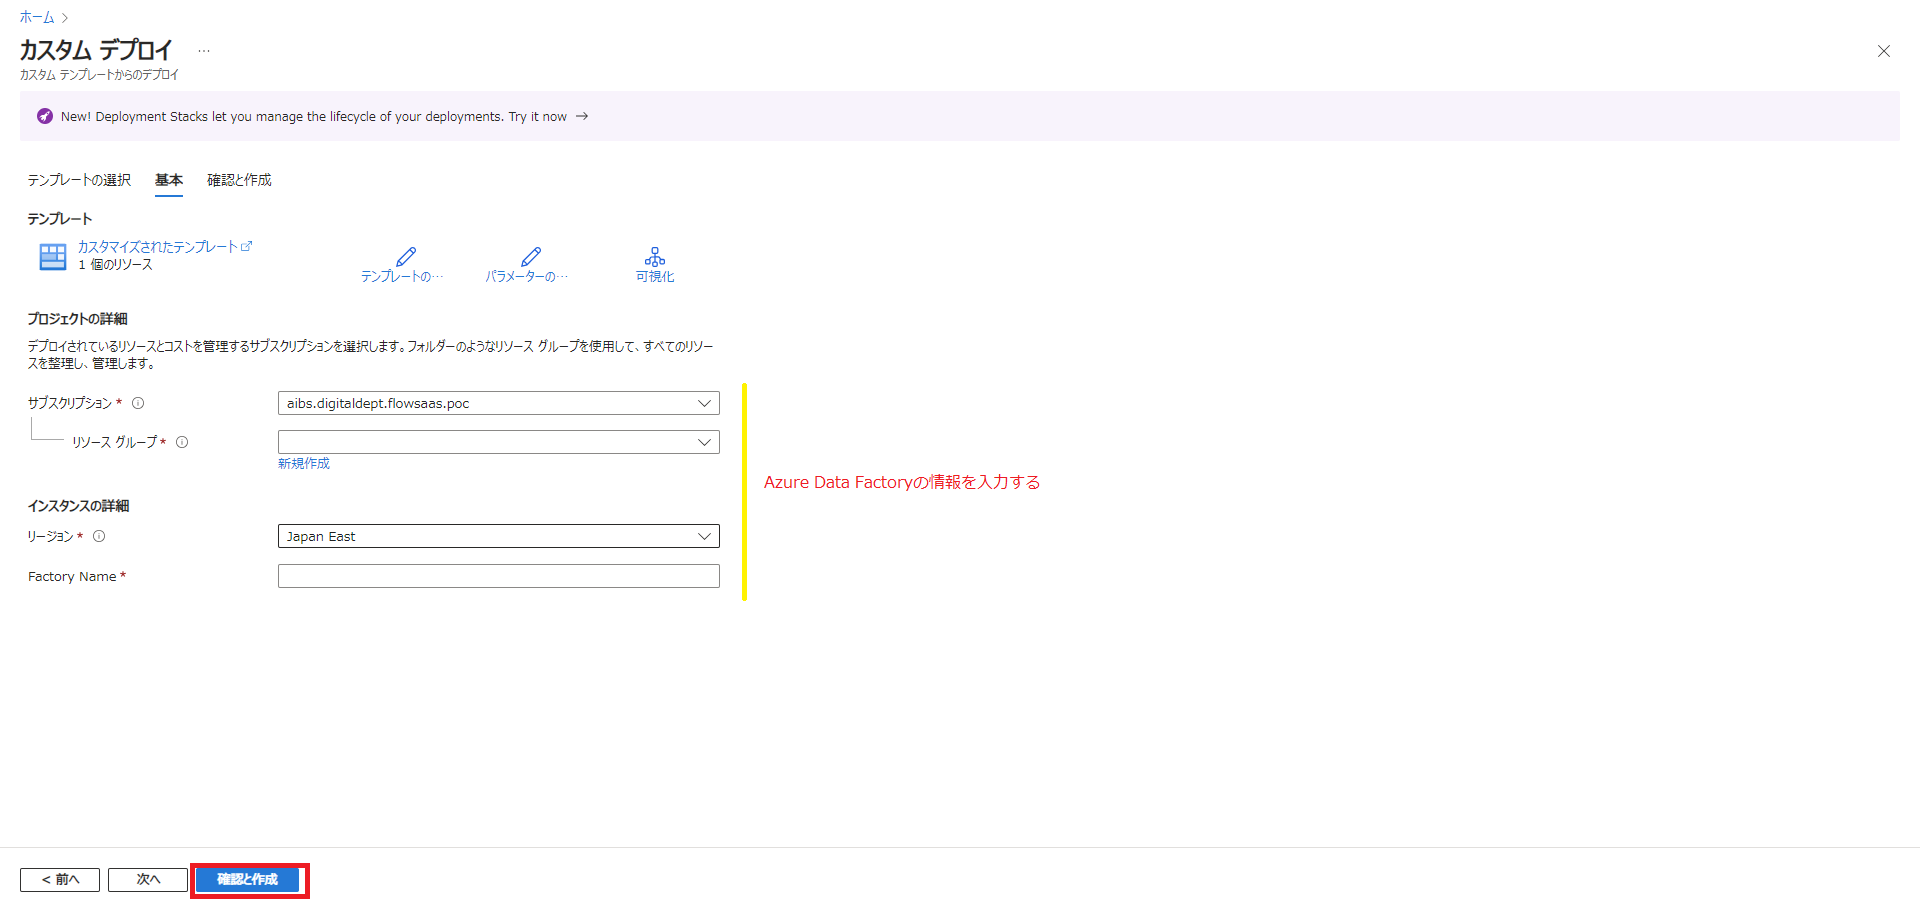
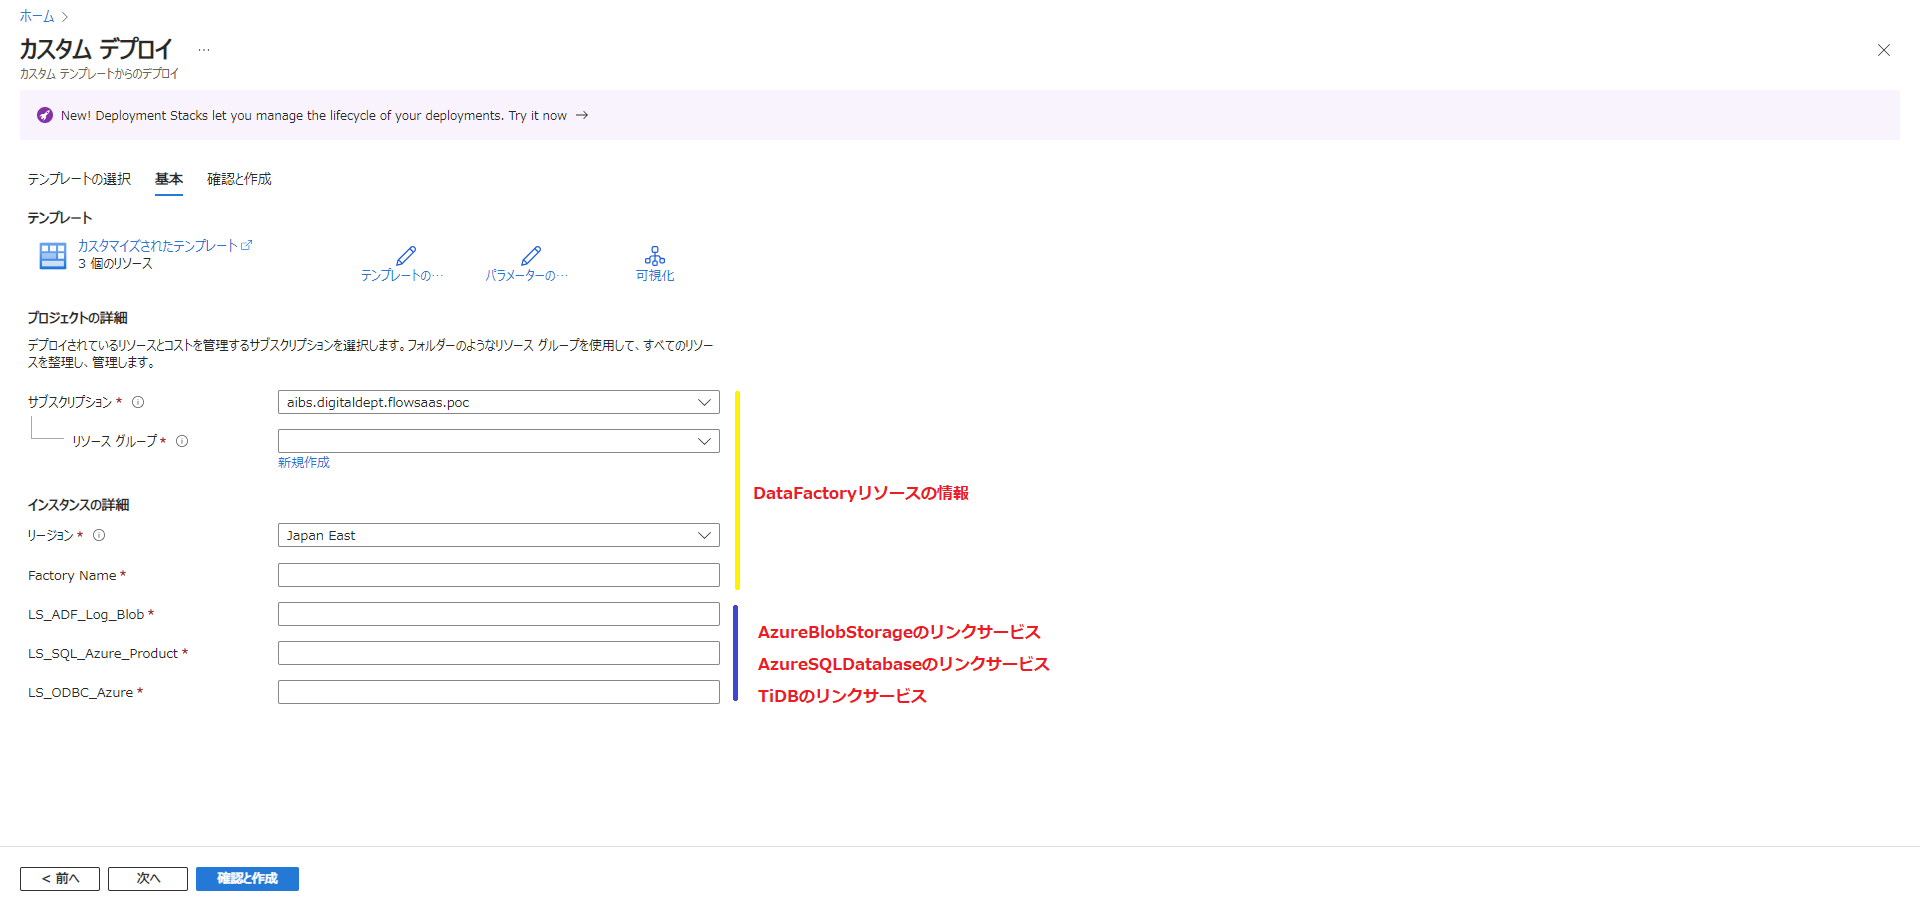
ADFの手順書更新

diff --git a/adf/script/GetTableList.py b/adf/script/GetTableList.py
@@ -1,0 +1,85 @@
+import re
+import json
+import pymssql
+from re import RegexFlag
+
+# ★★★TiDBのDB初期化スクリプトの格納場所
+_sql_script_path = r'<パース>\ebs-mysql.sql'
+# ★★★出力場所
+_output_table_path = r'<パース>\target_table_list.txt'
+
+# 取得元のSQL　Server情報
+# ★★★実行HOSTのIPはSQLデータベースのファイアウォールに設定必要
+_conn = pymssql.connect(
+    server='saas-core.database.windows.net',
+    user='saas',
+    password='eh0iSL-s3xi2amoL',
+    database='20240109_EBS',
+    as_dict=True
+) 
+
+# 登録日時、更新日時のNULL値があるかおうかのチェック
+def _check_update_col_contains_null(table_info: dict) -> bool:
+    cursor = _conn.cursor()
+    cursor.execute(f"SELECT COUNT(1) AS EXIST_NULL FROM {table_info['name']} WHERE {table_info['create']} IS NULL OR {table_info['update']} IS NULL")
+    result = cursor.fetchone()
+    cursor.close()
+    return result['EXIST_NULL'] > 0
+
+# 指定テーブルの主キー取得
+def _get_primary_keys(table_info: dict) -> list:
+    cursor = _conn.cursor()
+    # ★★★TABLE_SCHEMAは「dbo」以外の場合変更必要
+    sql = f"""
+SELECT COLUMN_NAME
+FROM INFORMATION_SCHEMA.KEY_COLUMN_USAGE
+WHERE OBJECTPROPERTY(OBJECT_ID(CONSTRAINT_SCHEMA + '.' + QUOTENAME(CONSTRAINT_NAME)), 'IsPrimaryKey') = 1
+AND TABLE_NAME = '{table_info['name']}' AND TABLE_SCHEMA = 'dbo'
+"""
+    cursor.execute(sql)
+    result = cursor.fetchall()
+    cursor.close()
+    if result:
+        return [row['COLUMN_NAME'] for row in result]
+    else:
+        return []
+
+# テーブル一覧作成(主キー、更新日時項目などの情報)
+def _get_table_list_with_update_datetime():
+    tabel_start = False
+    CREATE_KEYS = ["REC_ENT_DATE", "TOROKUYMD", "CREATE_DATE"]
+    UPDATE_KEYS = ["REC_EDT_DATE", "KOSHINYMD", "UPDATE_DATE"]
+    table_list = list()
+    table_info = dict()
+
+    with open(_sql_script_path, mode='r', encoding='utf-8') as fp:
+        for line in fp:
+            if re.match(r'CREATE\s+TABLE\s+(.+)\s+\(', line, flags=RegexFlag.IGNORECASE):
+                tabel_start = True
+                table_info = dict(name=re.match(r'CREATE\s+TABLE\s+(.+)\s+\(', line, flags=RegexFlag.IGNORECASE).group(1), create="", update="", primary=list(), can_diff=False)
+                table_info['primary'] = _get_primary_keys(table_info)
+            elif tabel_start:
+                if line.upper().count(' DATE') > 0:
+                    col_name = line.upper().strip().split(' ')[0]
+                    if col_name in CREATE_KEYS:
+                        table_info['create'] = col_name
+                    elif col_name in UPDATE_KEYS:
+                        table_info['update'] = col_name
+
+                if line.count(",") < 1 and line.count('--') < 1:
+                    tabel_start = False
+                    table_list.append(table_info)
+                    if len(table_info['primary']) > 0 and len(table_info['update']) > 0 and not _check_update_col_contains_null(table_info):
+                        table_info['can_diff'] = True
+                    
+                    if len(table_list) % 5 == 0:
+                        print(f"Completed {len(table_list)}, Please waiting...")
+
+    table_list.sort(key=lambda x: x['create'])
+    print(len(table_list))
+    with open(_output_table_path, 'w', encoding='utf-8', newline='') as wfp:
+        wfp.write(json.dumps(table_list, indent=2))
+
+if __name__ == '__main__':
+    _get_table_list_with_update_datetime()
+    _conn.close()

diff --git a/adf/README.md b/adf/README.md
@@ -214,7 +214,39 @@ POST https://management.azure.com/subscriptions/{subscriptionId}/resourceGroups/
 
 ![Alt text](images/pl_export.png)
 
-## 1.9.2. パイプラインのインポート
+## 1.9.2. インポート先のADFにリンクサービス作成
+
+## 1.9.2.1. Azure Blob Storage
+
+![Alt text](images/ls_blob_1.png)
+
+![Alt text](images/ls_blob_2.png)
+
+## 1.9.2.2. Azure SQL Database
+
+![Alt text](images/ls_sql_1.png)
+
+![Alt text](images/ls_sql_2.png)
+
+## 1.9.2.3. TiDB
+
+![Alt text](images/ls_tidb_1.png)
+
+![Alt text](images/ls_tidb_2.png)
+
+ODBC接続文字の例
+
+```Text
+DRIVER={MySQL ODBC 8.2 Unicode Driver};   # SHIRのホステドマシンにインストールしたMySQL ODBCの名前
+Server=localhost;
+Database=api_core;
+User=root;
+PASSWORD=root;
+AllowUserVariables=True;
+MaxPoolSize=2000;
+```
+
+## 1.9.3. パイプラインのインポート
 
 ![Alt text](images/pl_import_1.png)
 
@@ -223,6 +255,77 @@ POST https://management.azure.com/subscriptions/{subscriptionId}/resourceGroups/
 ![Alt text](images/pl_import_3.png)
 
 ![Alt text](images/pl_import_4.png)
+
+## 1.9.4. パイプラインのパラメータ設定
+
+・パイプラインのパラメータ
+
+![Alt text](images/pl_parameters.png)
+
+・対象テーブルリストファイルの置き場所
+
+パイプライン「MultipleTabeCopy_All」と「MultipleTabeCopy_Merge」のWEBアクティビティ「GetTableNameListFromBlob」のURLの指定場所を実際のパースに変更する
+
+・ログ出力先の確認
+
+![Alt text](images/log_path.png)
+
+## 1.9.5. トリガーの設定
+
+データコピーのは毎日定時に実行するので、スケジュール化必要です。処理流れは下記の通りです。
+
+・***パイプライン「StartVM」→パイプライン「MultipleTabeCopy_All」***   ※運用開始一回のみ実施するので、手動で実行するか、登録したトリガーを一回実施してから停止するようにします
+
+・***パイプライン「StartVM」→パイプライン「MultipleTabeCopy_Merge」***　※毎日定時実行(初回運用した後)
+
+***重要：***　パイプライン「StartVM」のトリガー時刻はCOPY処理の20分前に設定必要です(SHIRの起動など)。
+
+トリガーについての参照資料：[Azure Data Factory または Azure Synapse Analytics でのパイプライン実行とトリガー](https://learn.microsoft.com/ja-jp/azure/data-factory/concepts-pipeline-execution-triggers)
+
+## 1.9.6. 抽出対象テーブルリストの用意
+
+## 1.9.6.1. スクリプト実行
+
+前提：
+
+・　Pythonで開発したスクリプトなので、Pythonのご用意が必要です。またモジュール「pymssql」を使ってAzure Sql Databaseへ接続するので、モジュール「pymssql」の事前にインストールも必要です。
+
+・　AzureSQLDatabase側のFWが運用中なので、スクリプト実行マシンのIP登録が必要です。
+
+```Python
+# モジュールなければ、インストールする
+pip install pymssql
+
+# スクリプト実行(実行前、接続情報などの変数の設定を確認してください)
+python3 GetTableList.py
+```
+
+## 1.9.6.2. スクリプト実行で出力したファイルをBlobStorageへアップロード
+
+※アップロード先はパイプライン「MultipleTabeCopy_All」のWEBアクティビティ「GetTableNameListFromBlob」のURLの指定場所にアップロードする
+
+![Alt text](images/table_list_path.png)
+
+## 1.10. 料金計算
+
+## 1.10.1. Virtual Machine
+
+1.料金計算はAzure料金計算ツールを利用して計算します
+[料金計算ツール](https://azure.microsoft.com/ja-jp/pricing/calculator/)
+
+![Alt text](images/vm_price.png)
+
+## 1.10.2. Azure Data Factory
+
+1.コンセプトの説明
+[価格オプションの詳細](https://azure.microsoft.com/ja-jp/pricing/details/data-factory/data-pipeline/)
+
+![Alt text](images/adf_price_1.png)
+
+2.料金計算
+![Alt text](images/adf_price_2.png)
+
+※[セルフホステッド統合ランタイムの価格モデルについて](https://learn.microsoft.com/ja-jp/azure/data-factory/better-understand-different-integration-runtime-charges#self-hosted-integration-runtime)
 
 <style>
 p:has(> img){
